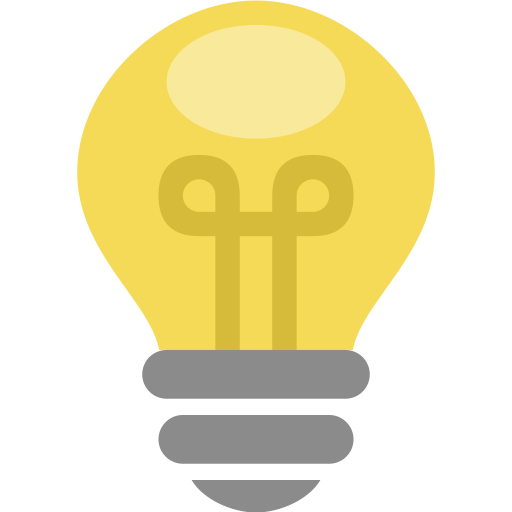
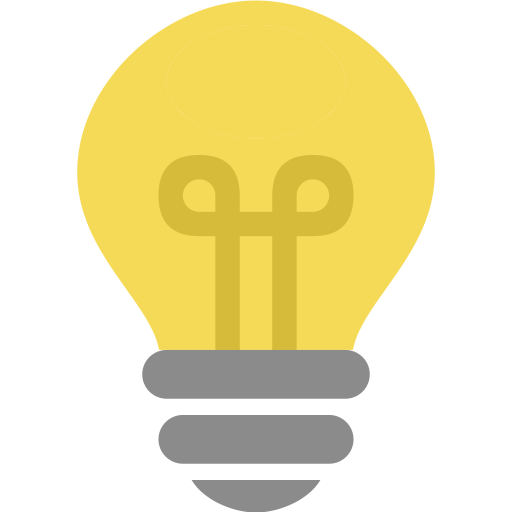
styling updates

Changed region(s): [[0.3125, 0.0312, 0.6875, 0.2812]]

diff --git a/client/src/components/Home/HowItWorks.js b/client/src/components/Home/HowItWorks.js
@@ -1,8 +1,9 @@
 import React, { Component } from 'react';
 import { Card, Col, Row } from 'antd';
 import magnifying from '../../images/magnifying.png';
-import lightbulb from '../../images/lightbulb.png';
+import lightbulb from '../../images/userbulb.png';
 import list from '../../images/list.png';
+import playVideo from '../../images/playVideo.png';
 
 
 const HowItWorks = function(props) {
@@ -27,7 +28,7 @@ const HowItWorks = function(props) {
           <Col span={8}>
             <Card>
               <div className="custom-image">
-                <img alt="example" width="100%" src={list} />
+                <img alt="example" width="100%" src={playVideo} />
               </div>
               <div className="custom-card">
                 <h2>Select Preferences</h2>

diff --git a/client/src/components/Home/Footer.js b/client/src/components/Home/Footer.js
@@ -16,7 +16,7 @@ const Footer = function(props) {
           </Col>
           <Col span={7}>
             <h2>Credits</h2>
-            <Icon type="caret-right" style={{color: '#efcc44'}}/> Graphics, Background & Vectors: <a href='https://www.freepik.com'>freepik</a> <br />
+            <Icon type="caret-right" style={{color: '#efcc44'}}/> Graphics, Background & Vectors: <a href='https://www.freepik.com'>freepik</a> & <a href='https://www.flaticon.com'>flaticon</a>  <br />
             <Icon type="caret-right" style={{color: '#efcc44'}}/> Design Library: <a href='https://ant.design/'>Ant Design</a> <br />
             <Icon type="caret-right" style={{color: '#efcc44'}}/> Roots: <a href='http://www.hackreactor.com'>Hack Reactor RPT</a><br />
           </Col>

diff --git a/client/src/components/Dashboard/dashboard.css b/client/src/components/Dashboard/dashboard.css
@@ -52,6 +52,8 @@
   width: 90%;
   margin: 18px 0px;
   padding-left: 100px;
+  padding-bottom: 65px;
+  padding-top: 10px;
 }
 
 .videoTitle {
@@ -91,8 +93,7 @@
 **********************/
 
 .recentVideosContainer {
-  margin-top: 5px;
-  padding-top: 8px;
+  margin-top: 5px; padding-top: 8px;
   margin-bottom: 50px;
   padding-right: 100px;
   display: inline-block;
@@ -102,7 +103,7 @@
 .recentVideosListTitle {
   margin-bottom: 5px;
   font-weight: bold;
-  padding-top: 8px;
+  padding-top: 18px;
 }
 
 .recentVideo {

diff --git a/client/src/components/Home/home.css b/client/src/components/Home/home.css
@@ -91,7 +91,7 @@
 
 .topvideo-wrapper img {
   max-width: 85%;
-  margin: 0px 5px;
+  margin: 0px auto;
   opacity: .85;
 }
 
@@ -100,16 +100,17 @@
   top: 20%;
   bottom: 0;
   right: 0;
-  left: 30%;
+  left: 0;
+  max-width: 7vh;
 }
 
 
 .home-stats-overlay {
   position: absolute;
   opacity: 1; 
-  width: 30%;
-  bottom: 18px;
-  right: 38px;
+  width: 40%;
+  bottom: 11px;
+  right: 23px;
   text-align: center;
   color: white;
   background-color: rgba(0, 0, 0, 0.5)

diff --git a/client/src/components/Account/Account.css b/client/src/components/Account/Account.css
@@ -54,7 +54,7 @@ Category Preferences
 
 .subcatImage img {
   display: block;
-  margin: auto;
+  margin: 10px auto;
   width: 6vw;
 }
 
@@ -66,7 +66,7 @@ Category Preferences
 
 .subcategoryCard {
     width: 13vw;
-    height: 210px;
+    height: 240px;
     margin: 8px;
     display: inline-block;
 }

diff --git a/client/src/components/Account/SubcategoryCard.js b/client/src/components/Account/SubcategoryCard.js
@@ -1,6 +1,6 @@
 import React, { Component } from 'react';
 import { Card } from 'antd';
-import lightbulb from '../../images/lightbulb.png';
+import lightbulb from '../../images/userbulb.png';
 
 
 
